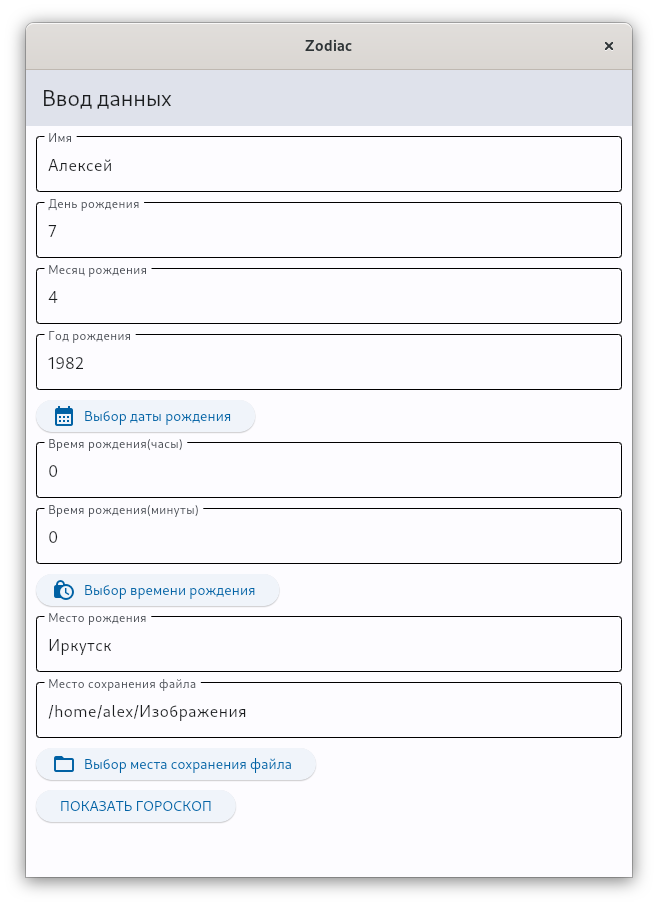
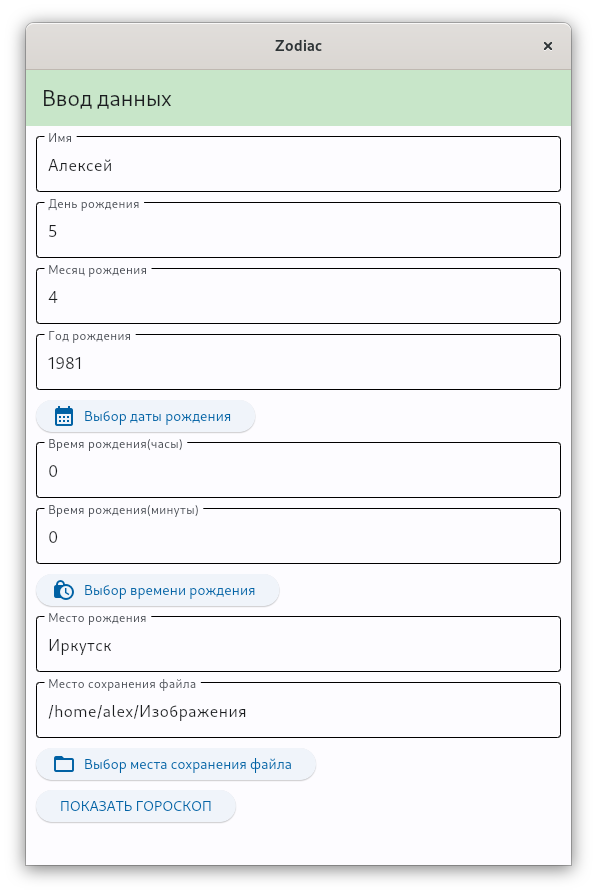
Add files via upload

Changed region(s): [[0.0302, 0.0302, 0.9648, 0.9664]]

diff --git a/main.py b/main.py
@@ -1,5 +1,5 @@
 import flet
-from flet import View, AppBar, ElevatedButton, Page, Text, TextField, Image, DatePicker, TimePicker, FilePicker, FilePickerResultEvent, SnackBar, Column, ScrollMode, colors, icons
+from flet import View, AppBar, ElevatedButton, Page, Text, TextField, Image, DatePicker, TimePicker, FilePicker, FilePickerResultEvent, SnackBar, Column, ScrollMode, colors, icons, app
 from datetime import datetime
 from pathlib import Path
 from kerykeion import AstrologicalSubject, KerykeionChartSVG, Report
@@ -13,7 +13,7 @@ def main(page: Page):
             View(
                 "/",
                 [
-                    AppBar(title=Text("Ввод данных"), bgcolor=colors.SURFACE_VARIANT),
+                    AppBar(title=Text("Ввод данных"), bgcolor=colors.GREEN_100),
                     input_column
                 ],
                 scroll=ScrollMode.ADAPTIVE
@@ -24,7 +24,7 @@ def main(page: Page):
                 View(
                     "/result",
                     [
-                        AppBar(title=Text("Результат"), bgcolor=colors.SURFACE_VARIANT),
+                        AppBar(title=Text("Результат"), bgcolor=colors.BLUE_100),
                         output_column
                     ],
                     scroll=ScrollMode.ADAPTIVE
@@ -160,4 +160,4 @@ def main(page: Page):
 
     page.go(page.route)
 
-flet.app(main)
+app(main)
